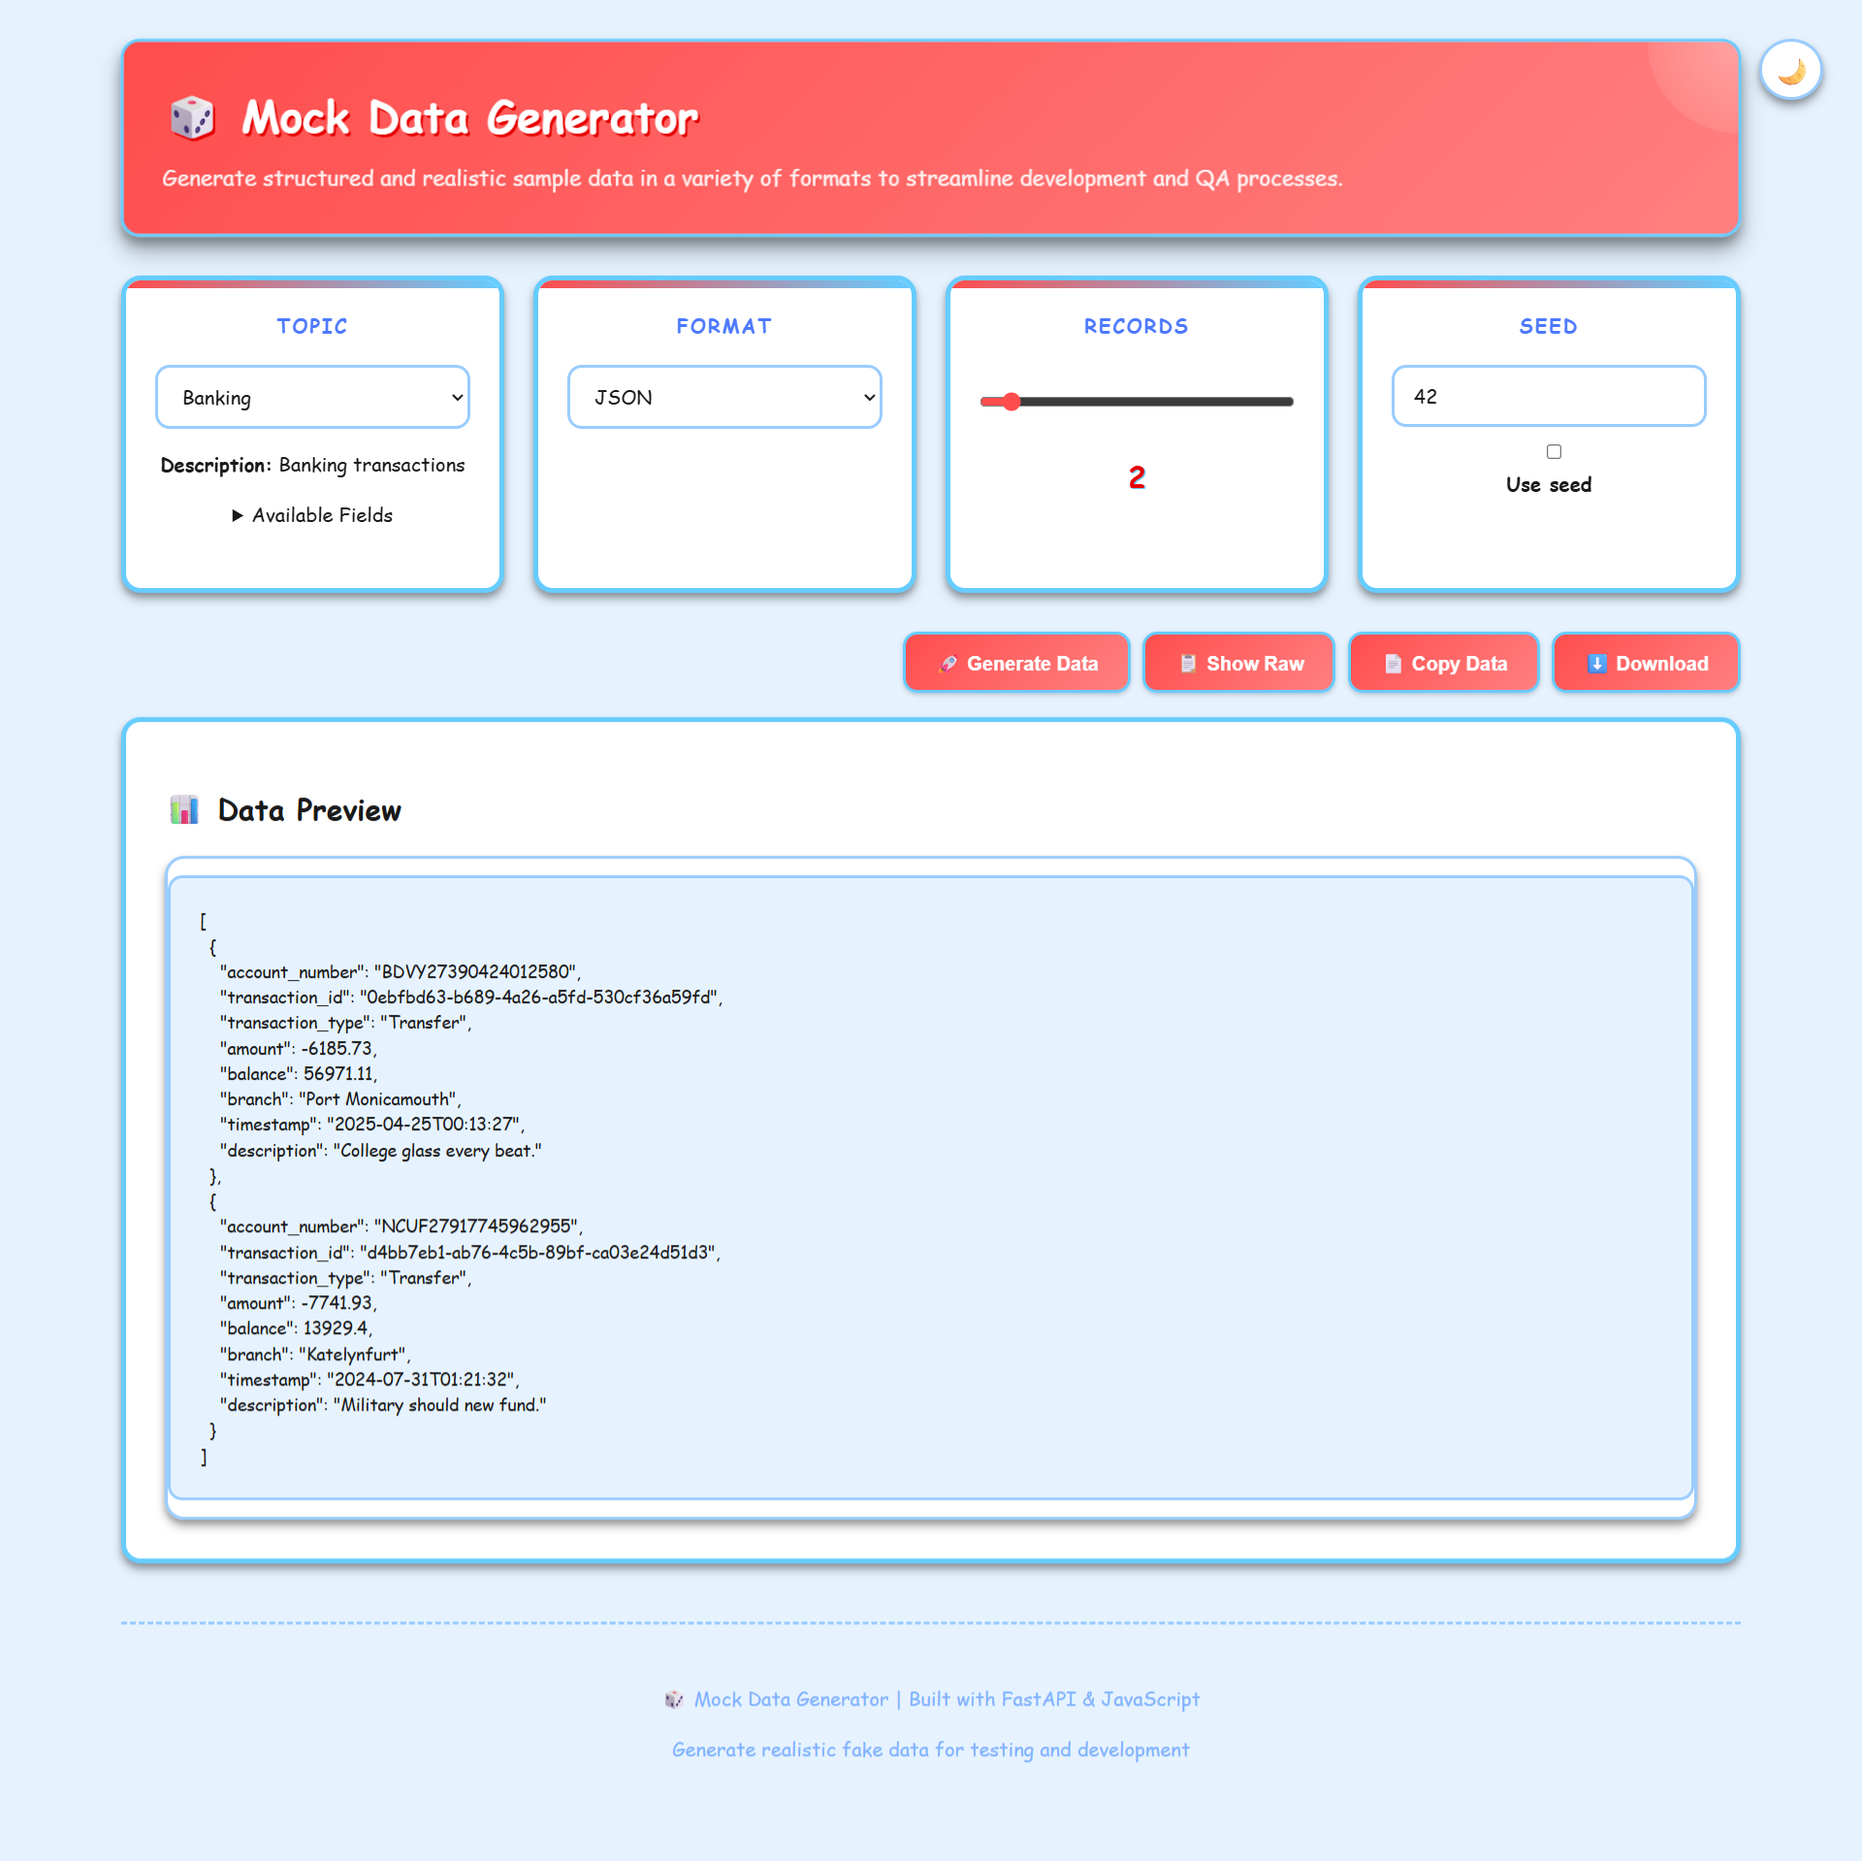
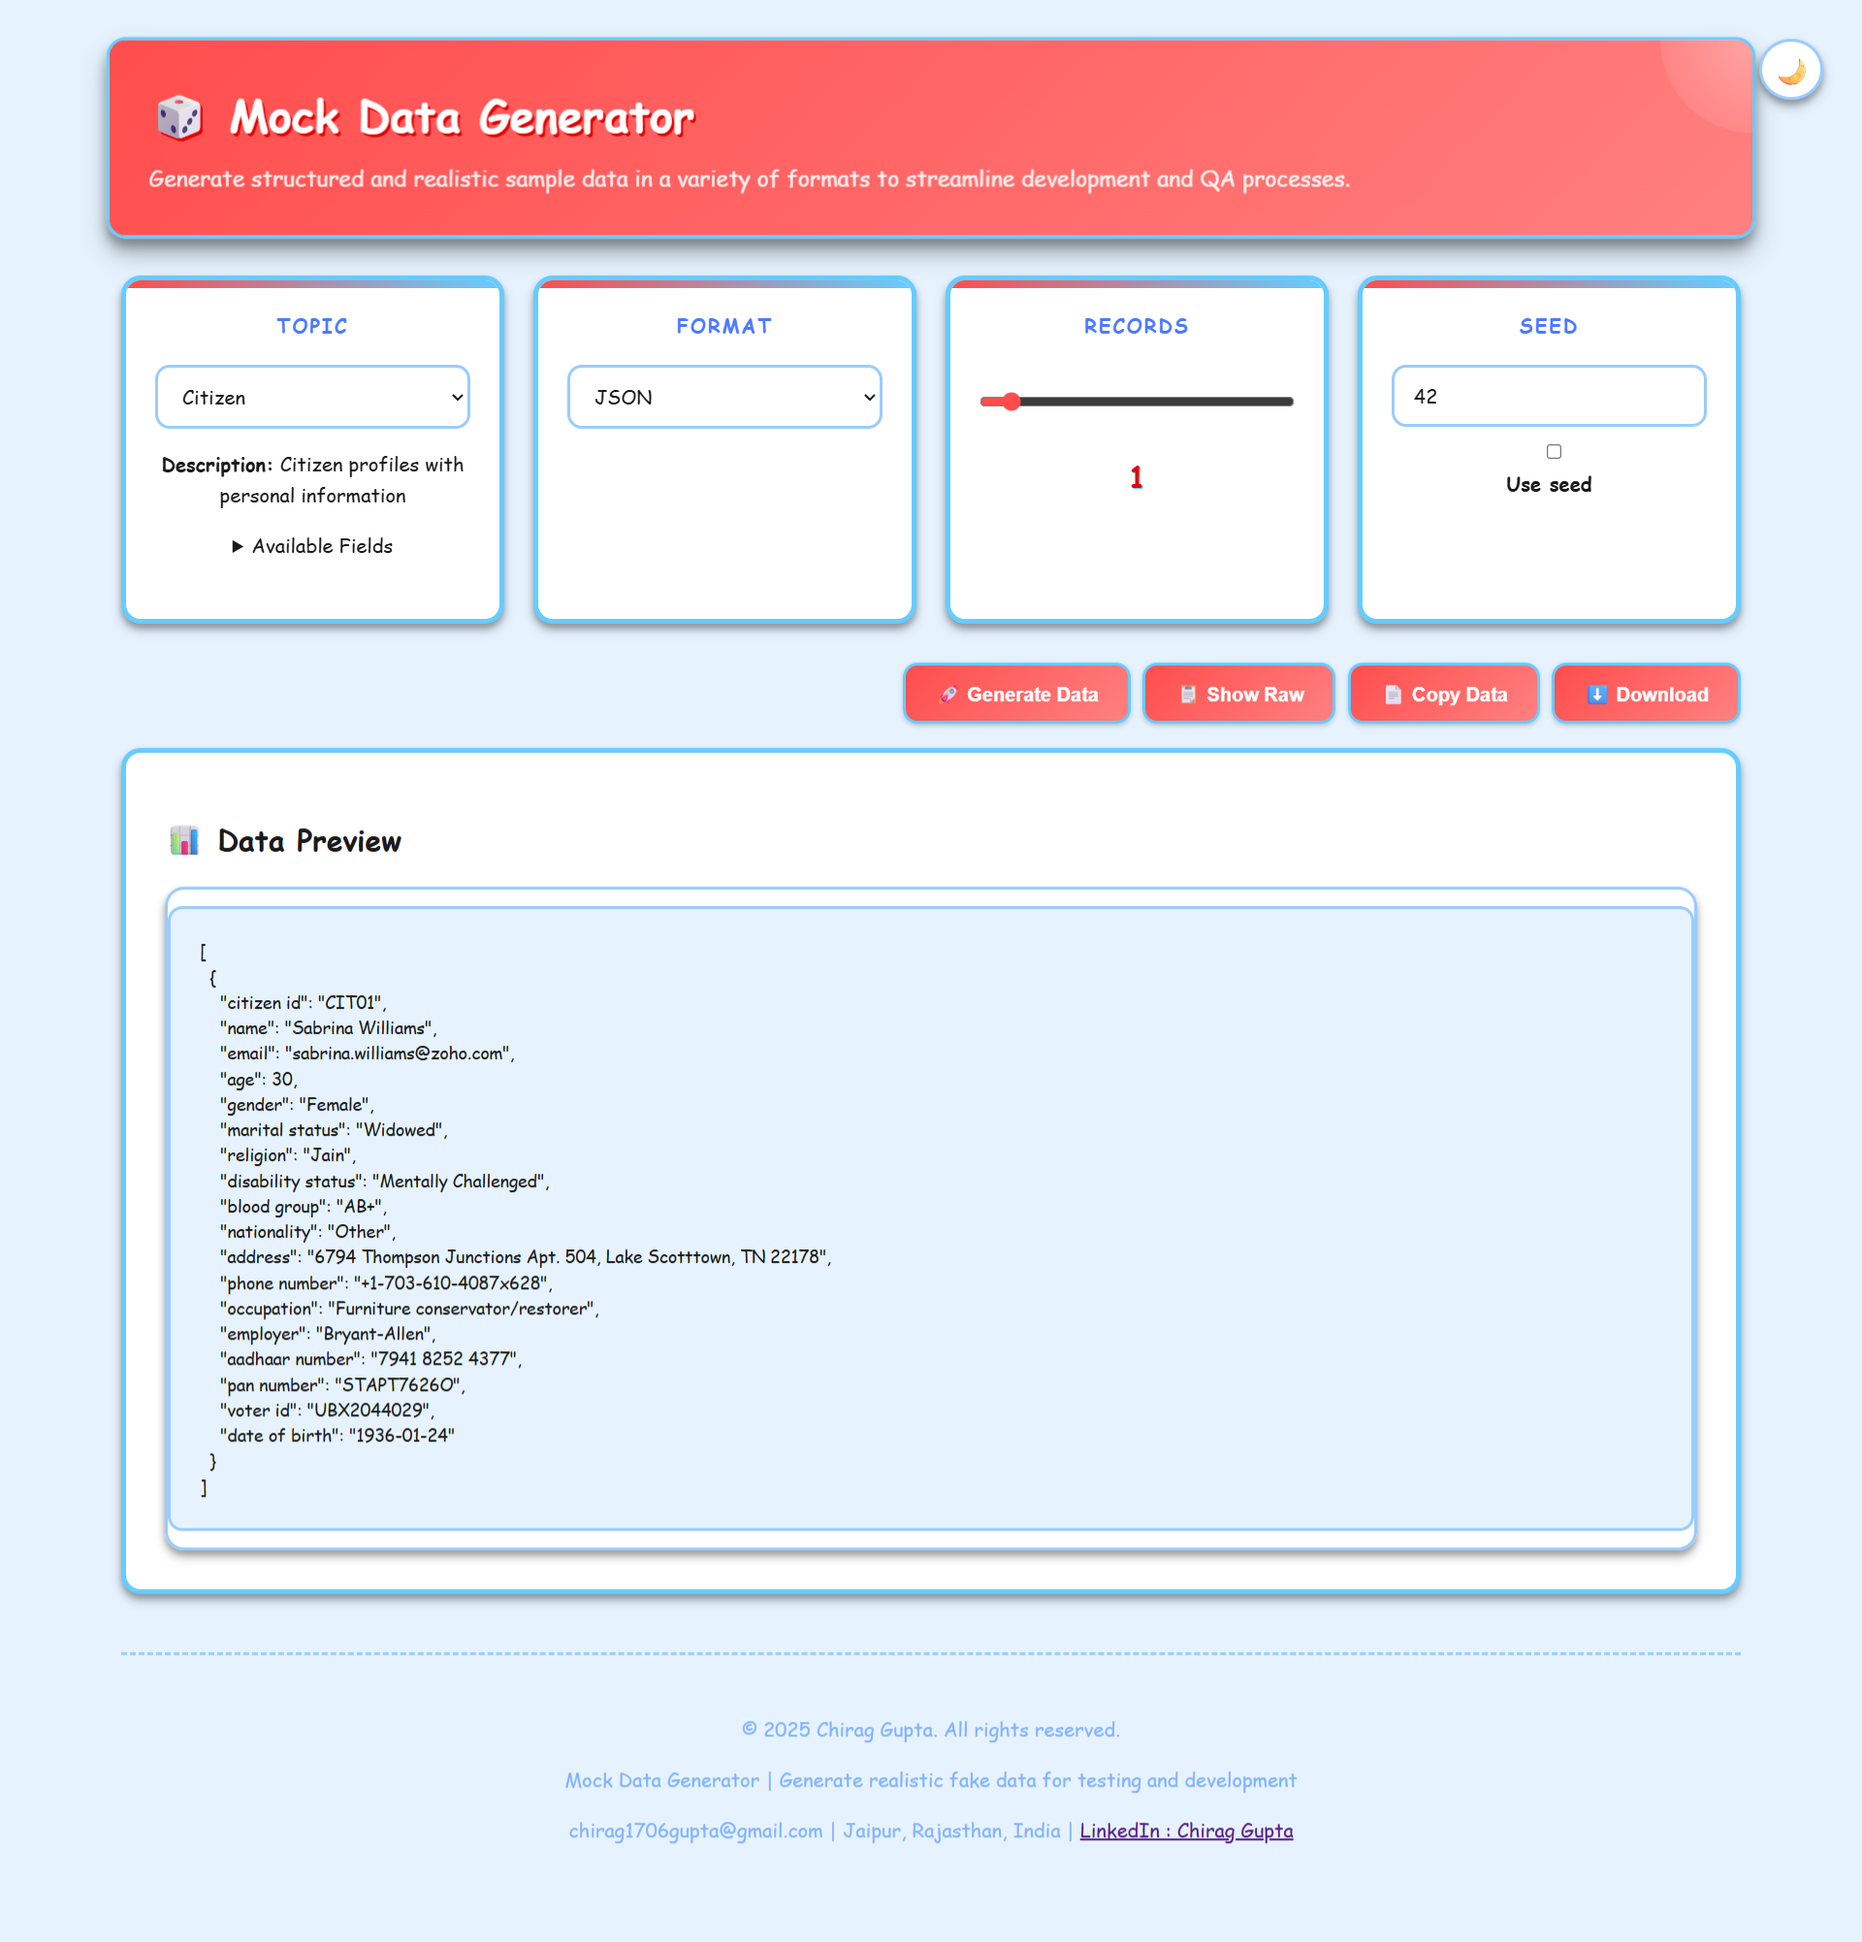
some changes

Changed region(s): [[0.0625, 0.4307, 0.9375, 0.9536], [0.0312, 0.0, 0.9688, 0.3691]]

diff --git a/frontend/index.html b/frontend/index.html
@@ -69,8 +69,9 @@
                 <div id="table-container" class="table-container"></div>
             </div>
             <div class="footer">
-                <p>🎲 Mock Data Generator | Built with FastAPI & JavaScript</p>
-                <p>Generate realistic fake data for testing and development</p>
+                <p>© 2025 Chirag Gupta. All rights reserved.</p>
+                <p>Mock Data Generator | Generate realistic fake data for testing and development</p>
+                <p>chirag1706gupta@gmail.com | Jaipur, Rajasthan, India | <a href="https://www.linkedin.com/in/chiraggupta1706/" target="_blank">LinkedIn : Chirag Gupta</a></p>
             </div>
         </div>
     </div>
